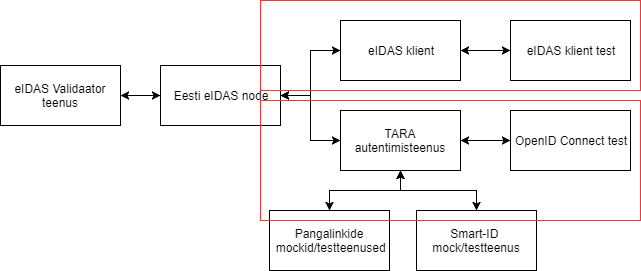
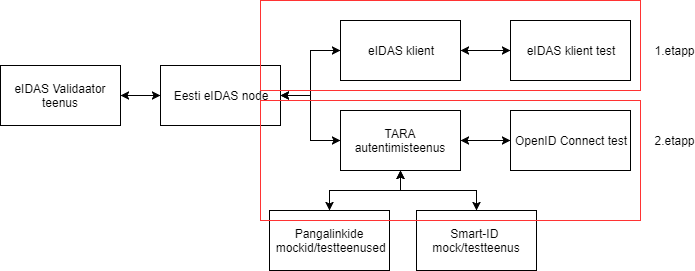
TARAEI-42 QA Strateegiale eIDAS kliendi testimise osa lisamine, kommentaaride sisseviimine.

diff --git a/QaStrateegia.md b/QaStrateegia.md
@@ -17,11 +17,12 @@ Tegemist on "elusa" dokumendiga mida uuendatakse vastavalt projekti edenemisele.
 
 ## Keskkonnad ja infrastruktuur
 
-Visioon on kasutada kahte erinevat keskkonda:<br>
-**Tsentraalne** - RIA taristusse paigaldatud eIDAS node, eIDAS klient ja TARA autentimisteenus. Tara autentimisteenus paigaldatakse automaatselt kasutades Jenkinsit. Peamine eesmärk on teostada süsteemitestimist RIA IT profiilile vastavas keskkonnas, läbides muuhulgas kõik automaattestid.<br>
-**Lokaalne** - arendaja arvutis üles seatav eIDAS node, eIDAS klient ja TARA autentimisteenus (kasutab Dockerit). Peamine eesmärk on hõlbustada arendust, probleemide uurimist ja koodi silumist.
+Visioon on peamiselt kasutada kahte erinevat keskkonda:<br>
+**Tsentraalne** - RIA taristusse paigaldatud eIDAS node, eIDAS klient ja TARA autentimisteenus. Uuendused paigaldatakse automaatselt kasutades Jenkinsit. Peamine eesmärk on teostada süsteemitestimist RIA IT profiilile vastavas keskkonnas, läbides muuhulgas kõik automaattestid. eIDAS node on ühendatud teiste riikide test eIDAS node-idega.
 
-`Kogemus näitab, et arendaja masinas ja RIA sisevõrgus paigaldamine on kasulik, kuid eIDAS klient peab olema ka mujale kui RIA taristusse paigaldatav. Pakun, et lisame testi, kus Nortal paigaldab eIDAS kliendi (lisaks ülalnimetatutele) ka oma taristusse, ühendab RIA konnektorteenusega ja teeb selle paigalduse pealt mõned happy path-testid läbi. Saame kindlust, et rakendus ei ole RIA-taristuspetsiifiline. -PriitP`
+**Lokaalne** - arendaja arvutis üles seatav eIDAS node, eIDAS klient ja TARA autentimisteenus (kasutab Dockerit). Peamine eesmärk on hõlbustada arendust, probleemide uurimist ja koodi silumist. Väline liidestus teiste node-idega puudub.
+
+**Hübriid** - eIDAS client on üles seatud välises infosüsteemis, ning liidestub RIA taristus asuva eIDAS node-i ja teiste riikide test eIDAS node-idega. Peamine eesmärk on teostada süsteemitestimist reaalsele süsteemi kasutusele omases keskkonnas.
 
 ## Arendusprotsess
 Toodet arendatakse avatud koodiga arenduse põhimõtteid järgides kasutades GitHubi koodihoidlat. Kasutatakse kahte peamist haru:
@@ -33,19 +34,14 @@ Joonis 1. Arendusprotsess
 
 Arendusprotsessiks kasutatakse SCRUM-il põhinevat iteratiivset protsessi. Protsessil on järgmised olulised elemendid:
 
-  * Toote arendust hallatakse läbi töönimekirjade (product backlog)
-
-`Tarkvaraarendust küll. Toote backlogi ma hoiaks eraldi. (Pealegi, ülal mainitakse, et tootestamist siin ei käsitletagi.) Toote backlog nõuab hoopis strateegilisemat vaadet. eIDAS kliendi tooteomadused on praegu eIDAS-Client repo avalehel. Neid ma tahakski väikese hulgana hoida. TARA-ga on lugu keerulisem. -PriitP`
-
+  * Tarkvara arendust hallatakse läbi töönimekirjade (backlog)
   * Kasutatakse kahe nädala pikkuseid sprinte
   * Toimuvad sprindi planeerimise ja lõpetamise koosolekud
   * Sprinte hallatakse läbi JIRA (sprint backlog)
   * Toimuvad hommikused meeskonna koosolekud
   * Toimuvad iganädalased projekti koosolekud lahtiste küsimuste arutamiseks ja sprintide planeerimiseks ning lõpetamiseks
   * Toimuvad retrospektiivid vähemalt korra kahe kuu jooksul
-  * Töö lõpetamise tingimus (_definition of done_) - arendustöö on läbinud koodi ülevaatuse, omab piisavat ühiktestide kaetust, piisavat dokumentatsiooni ning on läbinud nii arenduse kui vastuvõtu testimise. Piisava dokumentatsiooni põhikriteerium on, et “master” harus paiknevat koodi on alati võimalik kaasasolevat ehitus- ja paigaldusjuhendit järgides edukalt paigaldada RIA süsteemiadministraatorite poolt (kontroll teostatakse iga kord, kui toode tarnitakse testkeskkonda). “Done” staatusesse võib töid tõsta üksnes RIA osapool. 
-
-`See käib koodi toomise kohta. Peame silmas, et arendustöö sisaldab meil hoopis enamat, kui koodikirjutamist: speki koostamine, tarkvara kavandamine, tootestrateegia kujundamisel tellija nõustamine.`  
+  * Töö lõpetamise tingimus (_definition of done_) arendustöö korral - arendustöö on läbinud koodi ülevaatuse, omab piisavat ühiktestide kaetust, piisavat dokumentatsiooni ning on läbinud nii arenduse kui vastuvõtu testimise. Piisava dokumentatsiooni põhikriteerium on, et “master” harus paiknevat koodi on alati võimalik kaasasolevat ehitus- ja paigaldusjuhendit järgides edukalt paigaldada RIA süsteemiadministraatorite poolt (kontroll teostatakse iga kord, kui toode tarnitakse testkeskkonda). Muude tööde korral lähtutakse töö iseloomust. “Done” staatusesse võib töid tõsta üksnes RIA osapool.
 
 ### Jira töövoog
 
@@ -55,24 +51,20 @@ Jira töövoo olekute kirjeldused:
   * Töös olevad ülesanded (In Progress) - Hetkel töös olevad ülesanded
   * Ülevaatusel (In Review) - tehtud töö on ülevaatusel
   * Testimises (Test) - tehtud töö on arendaja poolsel testimisel
-  * Vastuvõtu testimises (In Acceptance Test) -  tehtud töö on vastuvõtu testimisel
+  * Vastuvõtu testimises (In Acceptance Test) -  tehtud töö on vastuvõtu testimisel või ülevaatusel
   * Lõpetatud (Done) - töö täidab lõpetamise tingimusi ning loetakse valminuks
 
 ### Jira tööülesannete nõuded vastavalt töö olekule
 
 |Olek| Nõuded |
 |-----|--------|
-|Toote töönimekiri (product backlog)|Toote töönimekirja võib sisestada tööülesandeid pealkirja tasemel mis kirjeldab ülesande peamist olemust. Enne sprindi planeerimist peab olema toote töönimekiri detailiseeritud tasemel mis võimaldab määrata tööde prioriteete ning anda ajahinnanguid.|
-|Sprindi töönimekiri (To Do - sprint backlog)|Sprindi töönimekirjas olevad tööülesanded peavad omama ajahinnangut ning piisavalt detailset kirjeldust võimaldamaks teostada ülesande analüüsi.|
+|Arenduse töönimekiri (backlog)|Arenduse töönimekirja võib sisestada tööülesandeid pealkirja tasemel mis kirjeldab ülesande peamist olemust. Enne sprindi planeerimist peab olema toote töönimekiri detailiseeritud tasemel mis võimaldab määrata tööde prioriteete ning anda ajahinnanguid.|
+|Sprindi töönimekiri (To Do - sprint backlog)|Sprindi töönimekirjas olevad tööülesanded peavad omama ajahinnangut ning piisavalt detailset kirjeldust võimaldamaks teostada ülesande analüüsi. Erandiks võivad olla uurivad ülesanded, mille mahtu ei ole võimalik koheselt hinnata ning  mille maht täpsustub töö käigus.|
 |Töös olevad ülesanded (In progress)|Töö käigus kirjeldatakse nõuded ning valitud lahendus. Kirjeldus peab olema piisavalt detailne võimaldamaks koodi ülevaatusel ja testimisel hinnata valminud töö vastavust nõuetele.|
 |Ülevaatusel (In Review)|Ülevaatuse käigus parandatakse/täiendatakse ka tööülesande kirjeldust.|
 |Testimises (Test)|Testimise käigus kirjeldatakse mida ja kuidas testiti. Hinnatakse tööülesande kirjeldust vastuvõtutestimise teostamiseks.|
 |Vastuvõtu testimises (In Acceptance Test)|Märgitakse töö vastuvõetuks või tuuakse puuduste põhjendused|
 |Lõpetatud (Done)|Töö vastab nõuetele|
-
-`Meil on ka nn uuriva programmeerimise töid, kus kõik nõuded ei ole töö alustamisel teada. -PriitP`
-
-`Võiks lisada: kui töö mahtu või keerukust ei suudeta sprindi planeerimisel usaldusväärselt hinnata, võidakse sprinti võtta ettevalmistava uurimise v analüüsi töö; võimalik on ka alustada tööd, aga teha seda timebox-põhimõttel (limiteeritud aeg uurimiseks). -PriitP`
 
 ## Kvaliteedi tagamise tegevused tarkvara arendusel
 
@@ -88,7 +80,7 @@ Uus funktsionaalsus peab olema kaetud ühiktestidega, piisav kaetus on antud fun
 
 Staatilise analüüsi vahendina kasutatakse tsentraalses testkeskonnas SonarCube-i mis on liidestatud Jenkinsini töövooga. Lokaalselt kasutavad arendajad SonarLinti.
 
-Kõik muudatused (kaasa arvatud ühiktestide muudatused) vaadatakse üle teise arendaja poolt. Ülevaatus peab jälgima koodi vastavust ka [mittefunktsionaalsetele nõuetele](https://e-gov.github.io/MFN/). Ülevaatusteks kasutatakse GitHubi "pull request" meetodit. Kõik koodi parendamise kommentaarid lisatakse GitHubi. Kood peab läbima ülevaatuse enne testimise algust. 
+Kõik muudatused (kaasa arvatud ühiktestide muudatused) vaadatakse üle teise arendaja poolt. Ülevaatus peab jälgima koodi vastavust ka [mittefunktsionaalsetele nõuetele](https://e-gov.github.io/MFN/). Ülevaatusteks kasutatakse GitHubi "pull request" meetodit. Kõik koodi parendamise kommentaarid lisatakse GitHubi. Kood peab läbima ülevaatuse enne testimise algust.
 
 ## Testimine
 
@@ -97,17 +89,19 @@ Kõik muudatused (kaasa arvatud ühiktestide muudatused) vaadatakse üle teise a
 Eesmärk on automatiseerida testimise funktsionaalsust määral mis annab parimat kasu ajalises ning korduvkasutatavuse mõttes. Ühekordsed tegevused testitakse käsitsi, v.a kui nende automatiseerimine ei ole võimalik samaväärse ajakuluga.
 
 ### Testimise protsess
-Testiplaani loomisel tuleb analüüsida testide jaotust ühik- ja integratsioonitestide vahel. Kuna tegu on keeruka süsteemiga mis koosneb mitmest välisest liidestusest mis ei ole meie kontrolli all, siis võib olla kiirem osad testid realiseerida ühiktestide tasemel.
+Testiplaani loomisel tuleb analüüsida testide jaotust ühik-, integratsiooni-, ning süsteemitestide vahel. Kuna tegu on keeruka süsteemiga mis koosneb mitmest välisest liidestusest mis ei ole meie kontrolli all, siis võib olla kiirem osad testid realiseerida ühiktestide tasemel.
 
 <img src='img/AutomaatneTestiprotsess.png' style='width: 600px;'>
-Joonis 2. Automaatsete testide protsess tsentraalses testkeskkonnas.
+Joonis 2. Automaatsete kontrollide protsess tsentraalses testkeskkonnas.
+
+**Märkus:** Automaatsete kontrollide käivitamine lokaalselt täpsustub hiljem.
 
 eIDAS autentimise automaatsed testid arendatakse kahes etapis:
 
-**1 etapp - eIDAS kliendi testid**
+**1.etapp - eIDAS kliendi testid**
 Testitakse kliendi liidestatust Eesti eIDAS node-iga. SAML liidestuse peamine testimise etapp. Antud testid peavad tagama kasutatavate SAML komponentide õige toimimise. Testid peavad olema pidevalt kaasajastatud ka järgnevates etappides, kuna tagavad SAML liidese korrektse töö ning antud teste teistes etappides ei dubleerita.
 
-**2 etapp - OpenID Connect testid**
+**2.etapp - OpenID Connect testid**
 Testitakse TARA võimekust konverteerida SAML liidesest tulevat infot OpenID Connect liidesesse. Eeldab SAML liidestuse korrektsust, mida testitakse esimeses etapis.
 
 <img src='img/TestimiseEtapid.png' style='width: 600px;'>
@@ -129,25 +123,74 @@ Tähelepanu tuleb juhtida asjaolule, et avatud lähtekoodiga arenduse korral võ
 
 ### Testimise tasemed
 
-**Integratsiooni testimine**
+####Integratsiooni testimine
 
 Eesmärk:  testida erinevate komponentide liidestamist/koostööd.
 
 <img src='img/Integratsioonitestid.png' style='width: 600px;'>
 Joonis 5. Integrarsioonitestid
 
-**Süsteemi testimine**
+**1.etapp eIDAS kliendi testimine**
+
+eIDAS kliendi integratsiooni testimiseks kasutatakse RestAssured raamistikku, teste hoitakse koos eIDAS klient tootekoodiga vastavas repositooriumis. Teste käivitatakse automaatselt vastavalt Joonisel 2. näidatule.
+RestAssured raamistikku kasutades asendatakse eIDAS kliendiga suhtlev veebilehitseja ning testitakse eIDAS kliendi SAML sõnumivahetust. Eelduseks on, et kasutatav pac4j teek on vastav SAML 2.0 protokollile ning testimisel keskendutakse eIDASest tingitud eripäradele.
+
+eIDAS kliendil on järgnevad olulised funktsionaalsused mille testimine on esmatähtis ning mille automatiseerimine tundub mõtekas:
+* Metaandmete publitseerimine
+* Metaandmete lugemine
+* Autentimise alustamine
+* Autentimisvastuse saamine
+
+<img src='img/MetadataIT.png' style='width: 600px;'>
+Joonis 6. Metaandmete publitseerimise testimine
+
+1) RestAssured raamistikus koostatakse metaandmete küsimise päring.
+2) Vastusena saadud metaandmed valideeritakse.
+
+**Lahtine küsimus**: Kuidas testime metaandmete lugemist (kas tulevad failist või tehakse päring)? "happy path" juhu saaks testida selliselt, et kui autentimise alustamine õnnestub siis on kõik ok? Metaandmete lugemisel tekkivad vead, timeoutid jms tuleks siiski testida. See oleks mõtekas teha unit testi tasemel?
+
+<img src='img/eidasParingIT.png' style='width: 600px;'>
+Joonis 7. Autentimise alustamise testimine
+
+1) RestAssured raamistikus koostatakse testandmetega päring. Reaalses rakenduses on kasutaja poolt valitud andmete hulk piiratud. Testimise eesmärgil võib vajalik olla eIDAS kliendi test režiimi loomine mis võimaldaks kõiki SAML parameetreid seadistada.
+2) eIDAS kliendi poolt saadetud SAML päring valideeritakse RestAssured raamistikus. Valideerimise õnnestumisel saadetakse päring lokaalsesse eIDAS nodei.
+3) eIDAS nodei vastus valideeritakse üldisel tasemel (uus SAML päring või veakood).
+
+<img src='img/AutentimiseVastusIT.png' style='width: 600px;'>
+Joonis 8. Autentimisvastuse saamise testimine
+
+1) Teostatakse "happy path" valideerimise alustuse voog.
+2) Tagastatavad andmed saadetakse kas muutmatul kujul ("happy path" test) või modifitseeritud kujul (erijuhud) eIDAS klienti.
+3) Kuvatavad isikuandmed või veakoodid valideeritakse.
+
+Lisaks liidestuse automaatsele kontrollimisele tuleb käsitsi testida eIDAS kliendi näidis veebilehte:
+* POST päringute korrektset tööd (kasutaja sekkumise vajadus/mittevajadus).
+* Veebilehel info kuvamine ning kujundus.
+
+**2. etapp - TARA autentimisteenuse testimine**
+
+Täpsustub hiljem.
+
+####Süsteemi testimine
 
 Eesmärk: kasutuslugudes ja end-to-end stsenaariumite toimimises vigade leidmine.
 
 <img src='img/Systeemitestid.png' style='width: 600px;'>
-Joonis 6. Süsteemitestid
+Joonis 9. Süsteemitestid
 
-**Vastuvõtu testimine**
+**1.etapp eIDAS kliendi testimine**
+
+Testitakse käsitsi, kaaluda võib "happy path" juhtude automatiseerimist. Peamine liidestumine testitakse kasutades eIDAS validaatorteenust. Andmete olemasolul tuleks kasutada ka teiste riikide eIDAS node testteenuseid. Oluline on tähelepanu pöörata võimalikele erinevustele isiku andmetes mida partnerriigid pakuvad.
+
+**2.etapp TARA autentimisteenuse testimine**
+
+Täpsustub hiljem.
+
+####Vastuvõtu testimine
 
 Eesmärk:  kontrollida toote või teenuse vastavust püstitatud nõuetele ja planeeritud otstarbele, st vastavust vastuvõtukriteeriumitele.
 
-**Regressioonitestimine**
+####Regressioonitestimine
 
 Eesmärk: minimiseerida riski, et arendusega otseselt mitte seotud funktsionaalsustesse on  tekkinud tahtmatuid mõjutusi.
 
